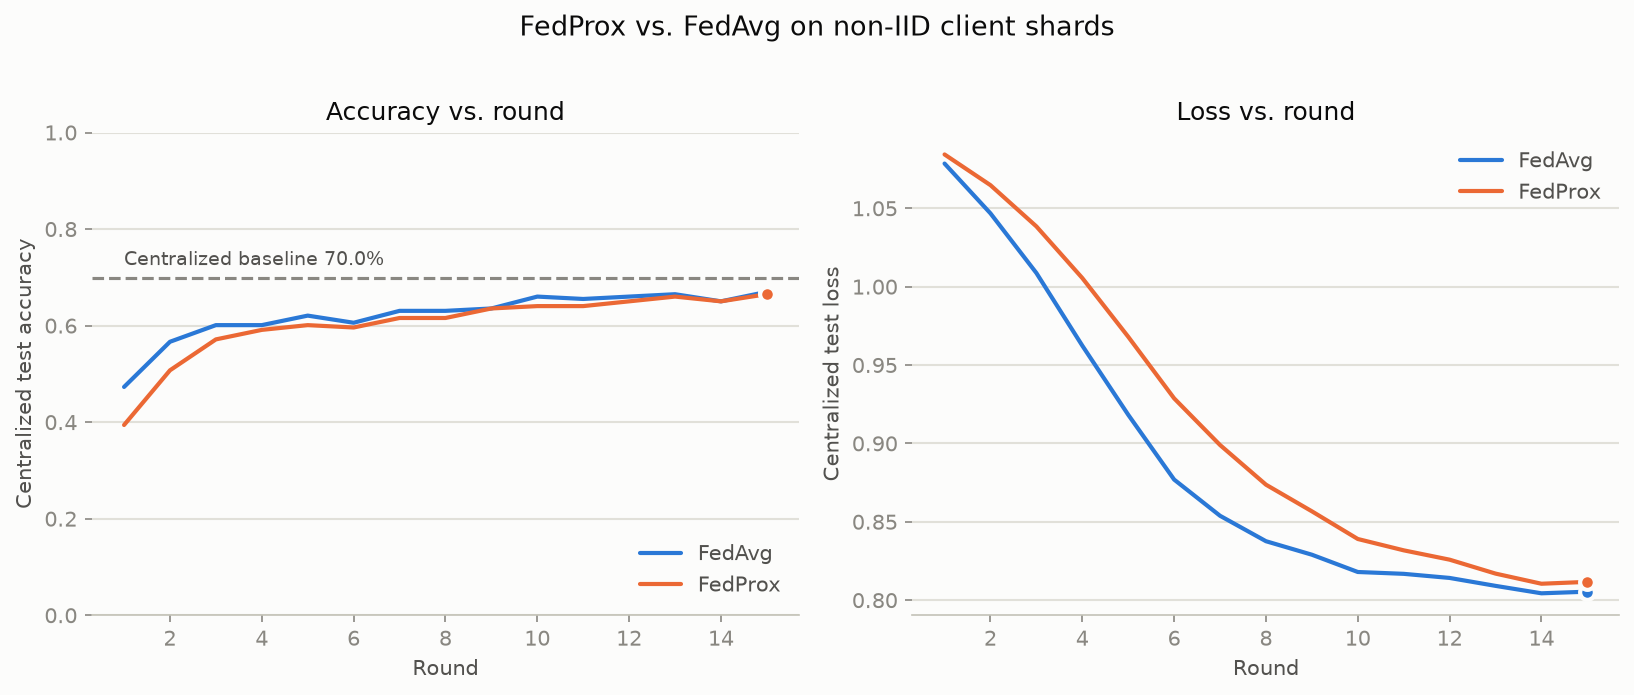
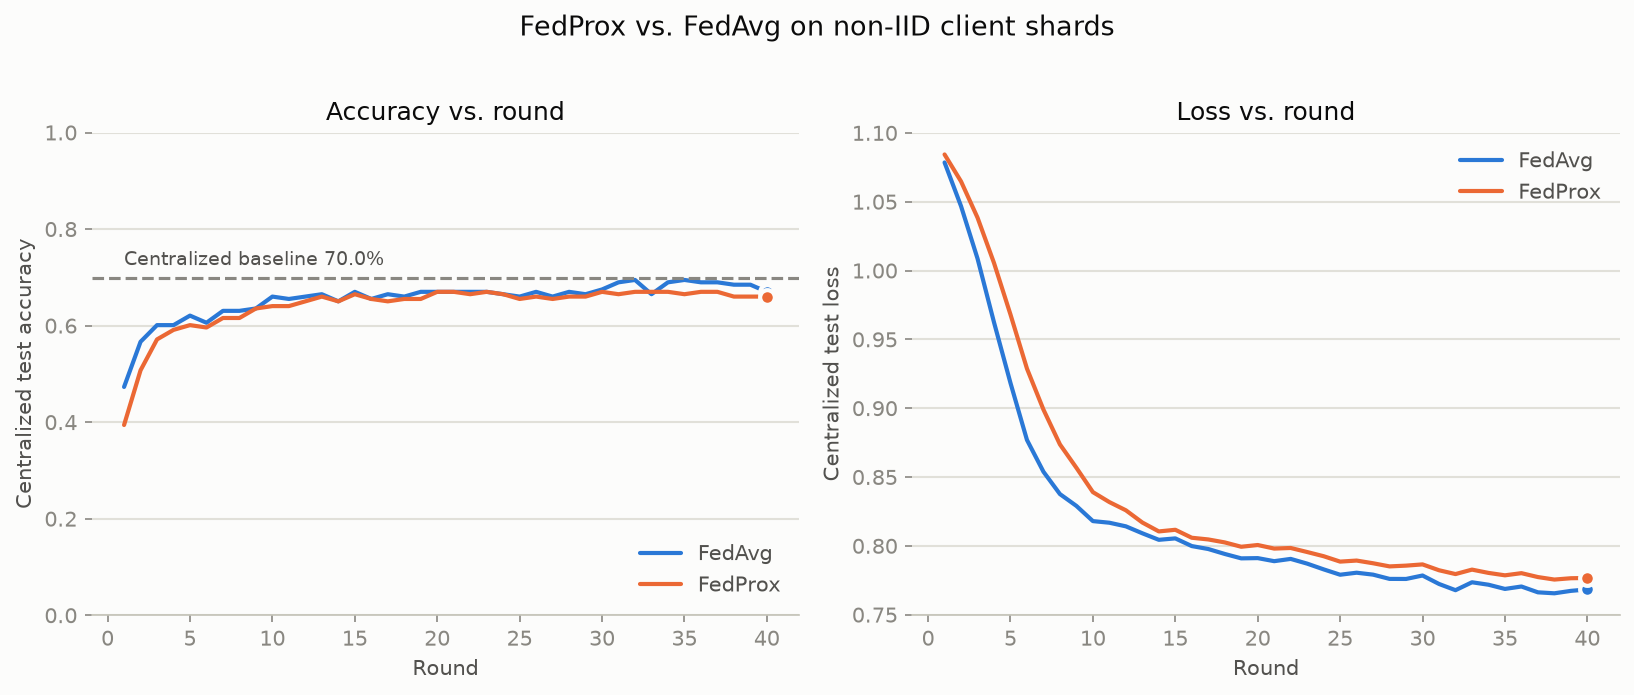
Extend comparison to 40 rounds and rewrite README for clarity
Peak accuracy essentially matches the centralized baseline (FedAvg 69.5%
vs 70.0% baseline) by round ~30, then plateaus with normal training noise.
README now leads with plain-language explanation, results table, and
honest caveats instead of a terse status log.

diff --git a/README.md b/README.md
@@ -1,39 +1,100 @@
 # Janani-Net
 
-Federated Learning for maternal health risk prediction (Low / Mid / High)
-from 6 vitals — Age, Systolic BP, Diastolic BP, Blood Glucose, Body Temp,
-Heart Rate.
+Predicting maternal health risk (Low / Mid / High) from 6 vitals, using
+**Federated Learning** instead of the usual "pool everyone's data and train
+one model" approach.
 
-Instead of centralizing patient records from multiple hospitals into one
-training set (a privacy/legal problem, and one that biases the model toward
-whichever hospital's patient population dominates the data), each simulated
-hospital trains locally on its own data and only shares model weights. This
-also lets us handle non-IID data across hospitals — a model trained mostly
-on urban hospital records tends to perform badly on rural clinic patients,
-since the underlying distributions differ.
+## The problem, in plain terms
 
-Built with [Flower](https://flower.ai/) for FL orchestration (FedProx
-strategy) and PyTorch for the model, trained/simulated locally on the
-[UCI Maternal Health Risk dataset](https://archive.ics.uci.edu/dataset/863/maternal+health+risk)
-(1014 records).
+You want to predict pregnancy risk level from simple vitals — age, blood
+pressure, blood sugar, body temperature, heart rate. The obvious approach:
+collect patient records from every hospital into one place and train a
+model on all of it. Two problems with that:
 
-## Status
+1. **Privacy/legal** — hospitals can't just hand over raw patient records
+   to a central server.
+2. **Bias** — even if they could, a model trained mostly on one hospital's
+   patients ends up tuned to that hospital's population and performs worse
+   for everyone else, since different hospitals/clinics see different
+   patient mixes.
 
-Phase 1 complete: preprocessing, non-IID Dirichlet partitioning, a
-centralized MLP baseline (70.0% test accuracy), a Flower `NumPyClient`
-with FedProx's proximal term, and a federated training loop comparing
-FedProx vs. FedAvg over 15 rounds on the same non-IID split (both reach
-~66-67% centralized accuracy). See `figures/` for the demo charts.
+## The fix: Federated Learning
 
-Note: Flower's own simulation runner (`start_simulation`/`run_simulation`)
-needs the `ray` package, which has no build for Python 3.14 on Windows yet.
-`scripts/run_fl.py` works around this with a manual round-loop driver that
-still calls Flower's real `FedProx`/`FedAvg` strategy objects for
-aggregation — see the script's docstring for details.
+Instead of hospitals sending data to one place, **each hospital keeps its
+data at home**, trains the same model locally, and only sends the model's
+*learned weights* (numbers, not patient info) to a central server. The
+server averages every hospital's weights into one improved global model,
+sends it back out, and repeats for several rounds. No raw data ever
+leaves the building.
 
-Planned for later phases (not built): DP-SGD, SHAP/LIME explainability,
-Raspberry Pi / edge deployment, synthetic data (VAE/GAN), a polished
-dashboard.
+We don't have 5 real hospitals, so we simulate them: split one public
+dataset into 5 skewed chunks (one **Dirichlet distribution** knob, `alpha`,
+controls how skewed) so each "hospital" sees a different risk-level mix —
+this is what makes it a meaningful test of federated learning rather than
+a toy example.
+
+## What's in this repo
+
+| Step | What it does | Code |
+|---|---|---|
+| 1 | Get the data | `data/raw/maternal_health_risk.csv` — 1014 real records, [UCI ML Repository](https://archive.ics.uci.edu/dataset/863/maternal+health+risk) |
+| 2 | Clean it | `src/preprocessing.py` — scale vitals to 0-1, encode risk labels |
+| 3 | Simulate 5 non-IID hospitals | `src/partition.py` — Dirichlet-skewed split |
+| 4 | Build + sanity-check the model | `src/model.py` (PyTorch MLP) + `scripts/train_baseline.py` |
+| 5 | Wrap it for federated training | `src/fl_client.py` — [Flower](https://flower.ai/) `NumPyClient`, with FedProx's regularization term |
+| 6 | Run federated rounds | `scripts/run_fl.py` — drives the multi-round loop |
+| 7 | Compare strategies | `scripts/compare_strategies.py` — FedProx vs. FedAvg, same data, same rounds |
+
+## Results
+
+**Centralized baseline** (normal training, no federation, all data in one
+place): **70.0% test accuracy**. This is the ceiling — the best case if
+privacy weren't a concern at all.
+
+**Federated** (5 non-IID hospitals, data never centralized), 40 rounds:
+
+| Strategy | Peak accuracy | Final accuracy |
+|---|---|---|
+| FedAvg | 69.5% (round 32) | 67.0% |
+| FedProx | 67.0% (round 20) | 66.0% |
+
+![FedProx vs FedAvg accuracy and loss over training rounds, both approaching the 70% centralized baseline](figures/fedprox_vs_fedavg.png)
+
+**Headline result**: federated training reaches essentially the same
+accuracy as centralized training within ~20-30 rounds — without any
+hospital ever sharing a patient record — then plateaus with normal
+training noise bouncing it a couple points either way, rather than
+climbing further. FedAvg and FedProx land close together here; FedProx's
+extra regularization term is expected to help more at *stronger* skew
+than this run uses (see Notes below).
+
+**The simulated non-IID hospitals** (5 clients, Dirichlet alpha=0.5) —
+each has a visibly different risk-level mix, which is the whole point:
+
+![Bar chart showing Low/Mid/High risk case counts per simulated hospital, visibly skewed differently per client](figures/client_class_distribution.png)
+
+## Notes / honest caveats
+
+- Single run, single seed — no averaging across multiple random splits, so
+  there's real run-to-run variance not captured here.
+- The dataset's "Mid risk" class inherently overlaps with Low and High in
+  the raw vitals (visible in the baseline's per-class report — Mid recall
+  is only 0.36 vs. 0.84/0.91 for Low/High); that ceiling is baked into
+  every number above, not something federation makes worse.
+- FedProx didn't clearly beat FedAvg at this moderate skew level
+  (alpha=0.5) with uniform local computation across clients — its proximal
+  term is a regularizer that's expected to matter more under stronger
+  non-IID skew (lower alpha) or heterogeneous client compute.
+- Flower's own simulation runner (`start_simulation`/`run_simulation`)
+  requires the `ray` package, which has no build for Python 3.14 on
+  Windows yet. `scripts/run_fl.py` works around this with a manual
+  round-loop driver that still calls Flower's real `FedProx`/`FedAvg`
+  strategy objects for aggregation — only the network/parallelism layer is
+  swapped out, not the aggregation math. See the script's docstring.
+
+**Not built** (planned for later phases): differential privacy (DP-SGD),
+SHAP/LIME explainability, real edge/Raspberry Pi deployment, synthetic
+data generation, a polished dashboard.
 
 ## Setup
 
@@ -53,6 +114,9 @@ python scripts/test_client.py                 # smoke-test the Flower client in 
 python scripts/run_fl.py --strategy fedprox   # one federated run (fedavg or fedprox)
 python scripts/compare_strategies.py          # both strategies + the comparison chart
 ```
+
+Every script is a CLI with `--num-clients`, `--alpha`, `--num-rounds`, etc.
+— defaults reproduce the numbers above exactly (fixed seed).
 
 ## Layout
 
